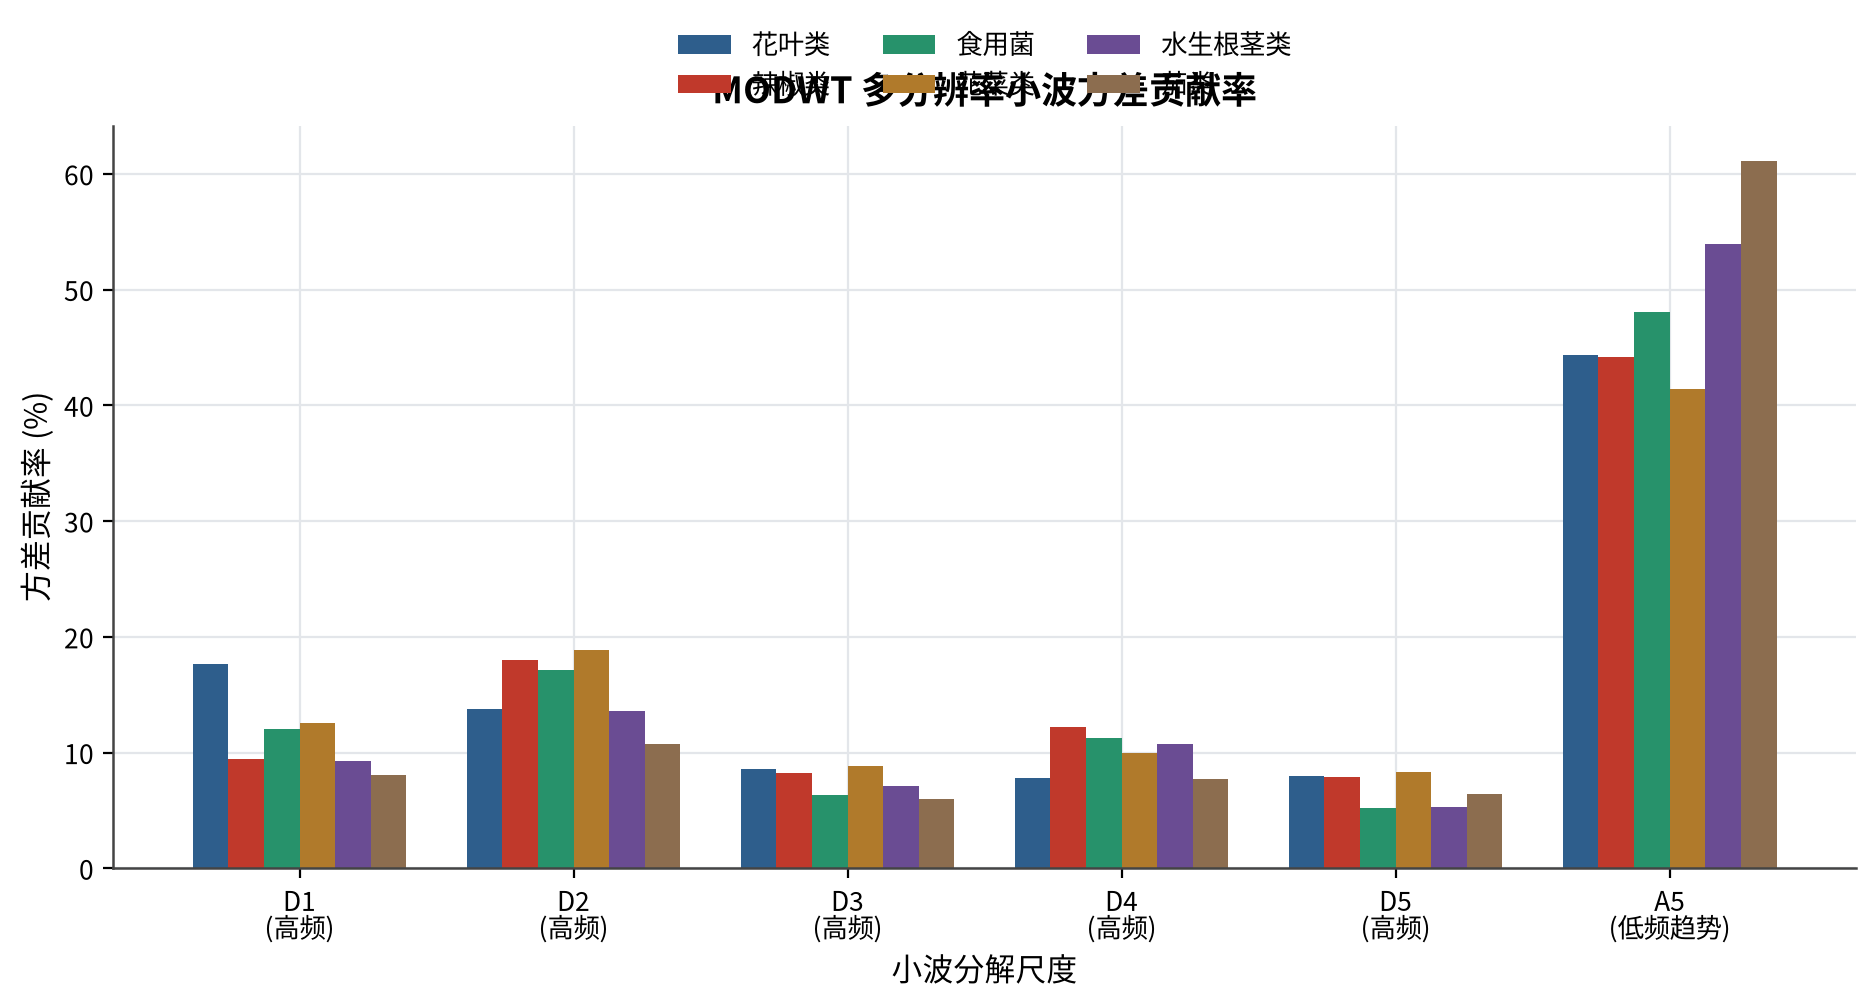
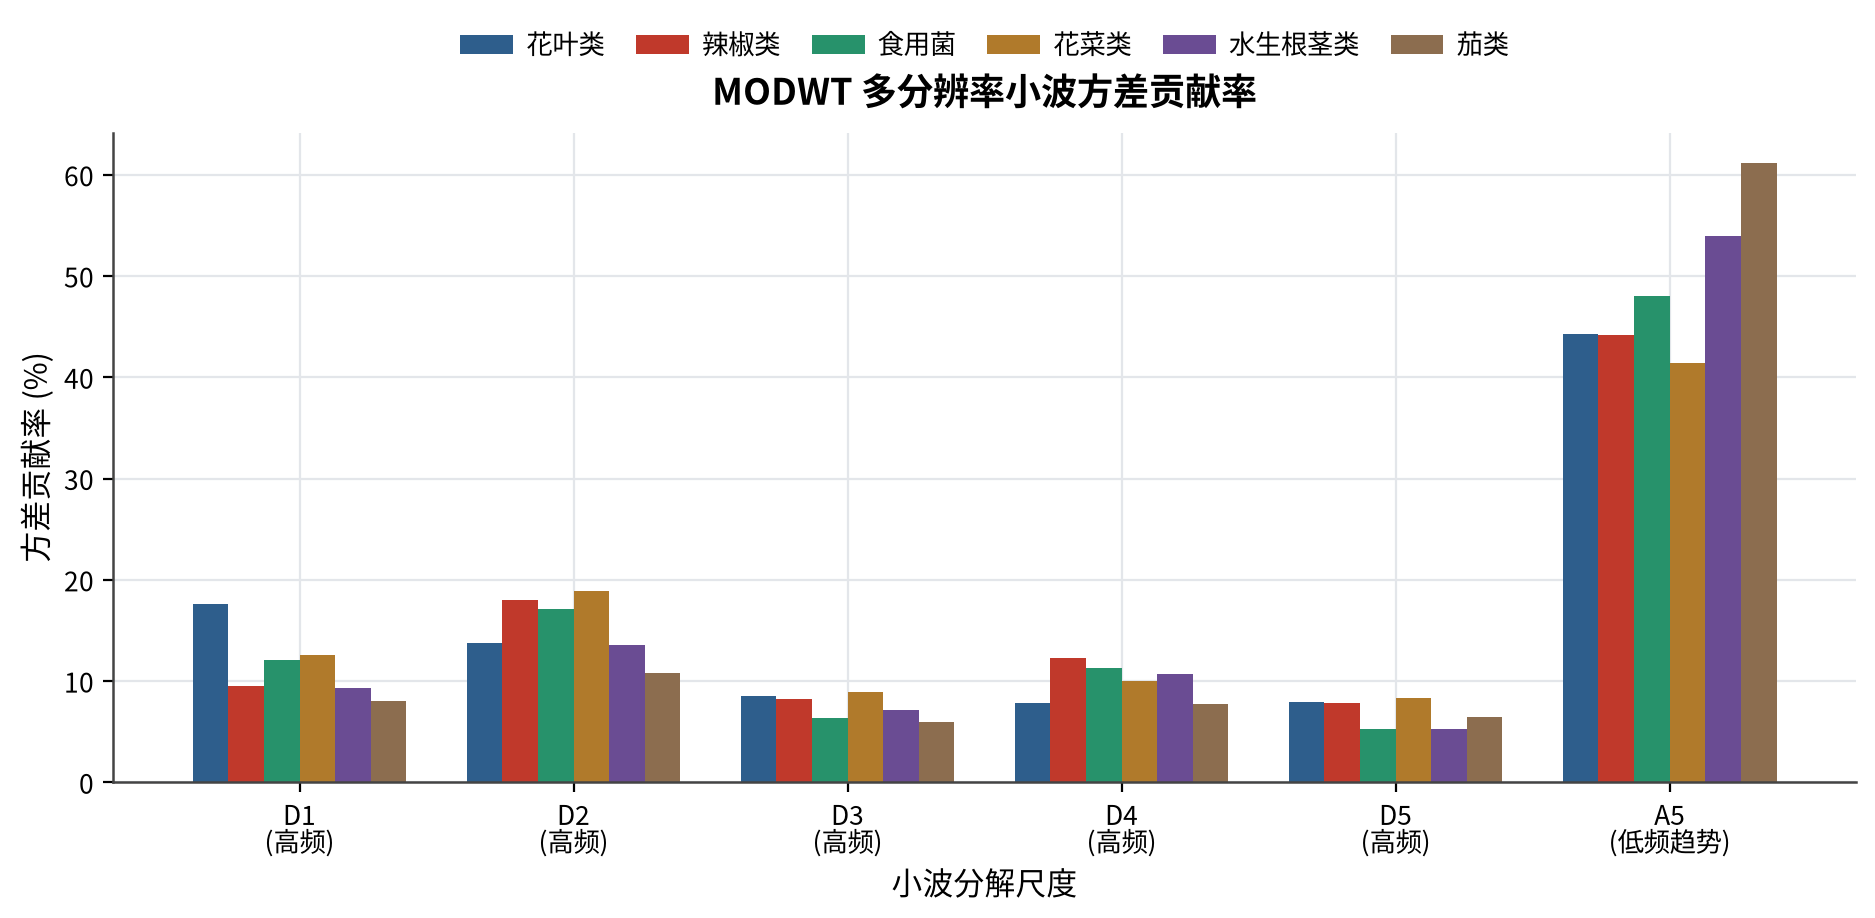
优化 fig02 小波方差图：图例单行置于标题上方，消除遮挡
- 图例由 ncol=3(两行) 改为 ncol=6 单行，移至标题上方且去边框
- 标题加粗、bbox_inches=tight 保存，避免与图例重叠
- 重新编译 main.pdf

diff --git a/20260621CC/paper/build_part1.py b/20260621CC/paper/build_part1.py
@@ -72,10 +72,14 @@ for k, cat in enumerate(C.ORDER):
     ax.bar(x + (k - 2.5) * w, share, w, label=cat, color=C.PALETTE[cat])
 ax.set_xticks(x)
 ax.set_xticklabels([f"{l}\n({'高频' if l.startswith('D') else '低频趋势'})" for l in labels])
-C.style_ax(ax, "MODWT 多分辨率小波方差贡献率", "小波分解尺度", "方差贡献率 (%)")
-ax.legend(ncol=3, loc="upper center", bbox_to_anchor=(0.5, 1.16))
-fig.tight_layout()
-C.save(fig, "fig02_wavelet.png")
+C.style_ax(ax, None, "小波分解尺度", "方差贡献率 (%)")
+ax.set_title("MODWT 多分辨率小波方差贡献率", pad=10, fontweight="bold")
+ax.legend(ncol=6, loc="lower center", bbox_to_anchor=(0.5, 1.08),
+          frameon=False, columnspacing=1.2, handletextpad=0.5)
+fig.tight_layout(rect=[0, 0, 1, 0.92])
+fig.savefig(C.FIG / "fig02_wavelet.png", bbox_inches="tight")
+C.plt.close(fig)
+print("saved fig02_wavelet.png")
 
 # ============================ Kendall / Pearson / MI 矩阵 ============================
 R = piv[C.ORDER]